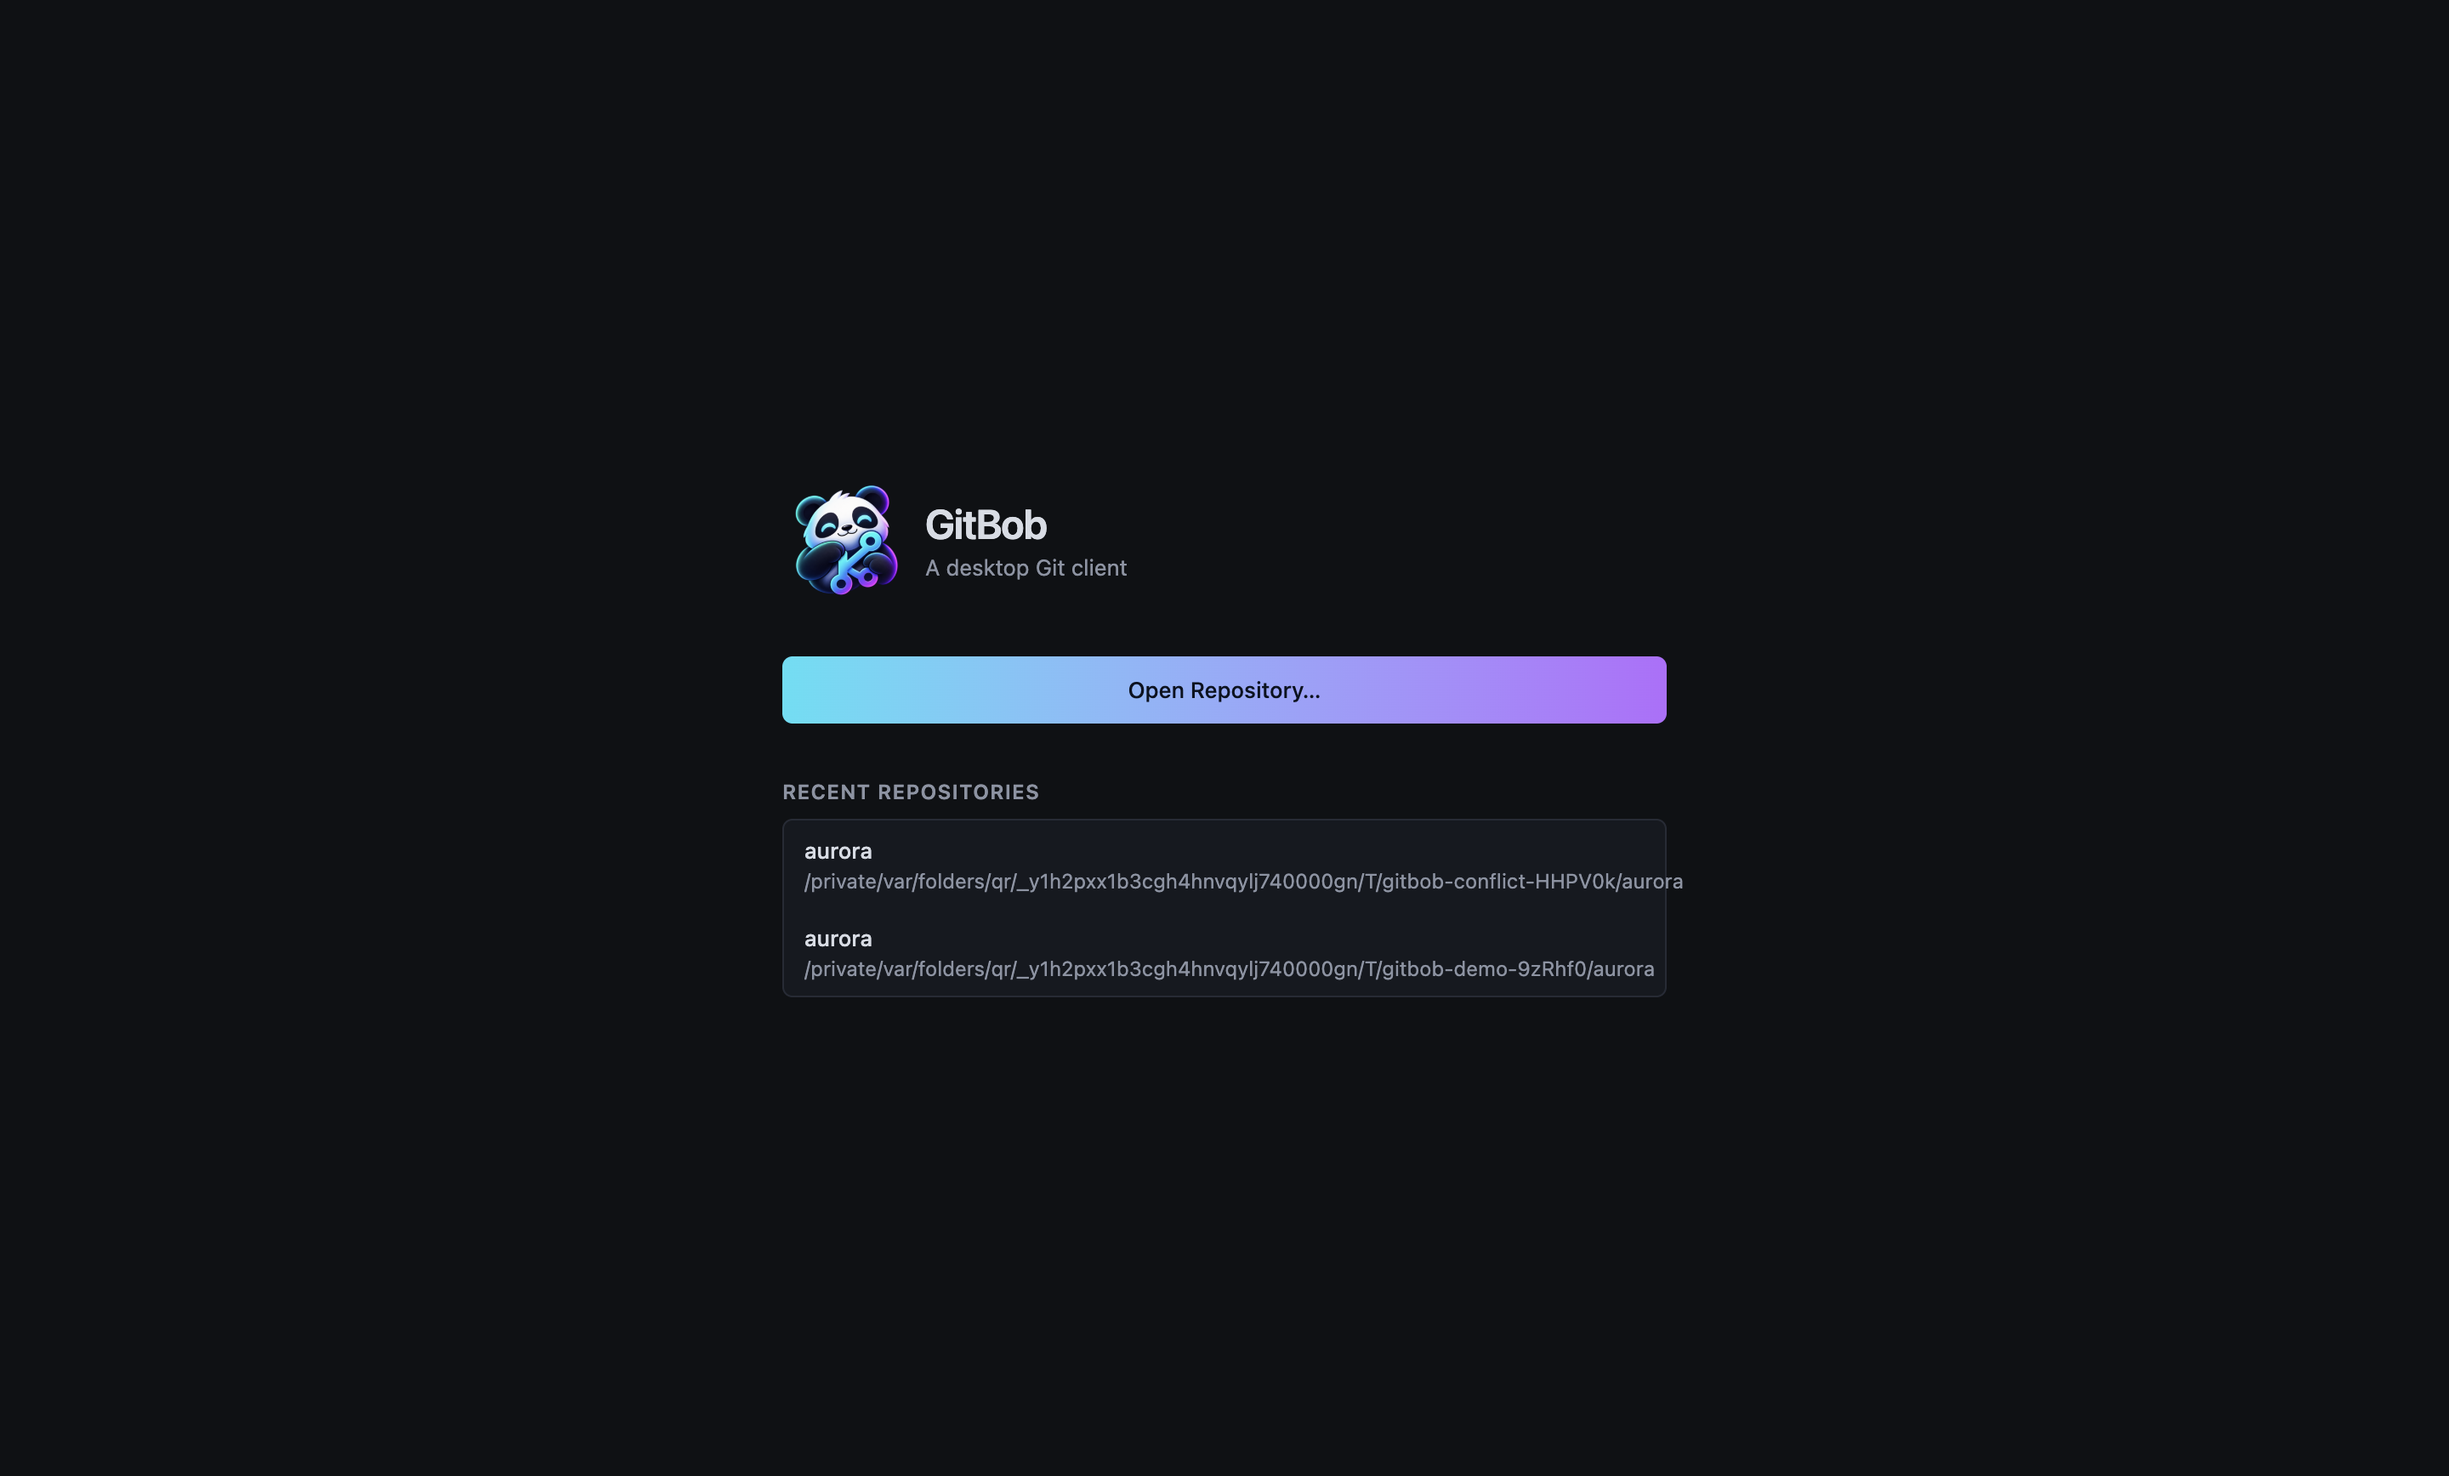
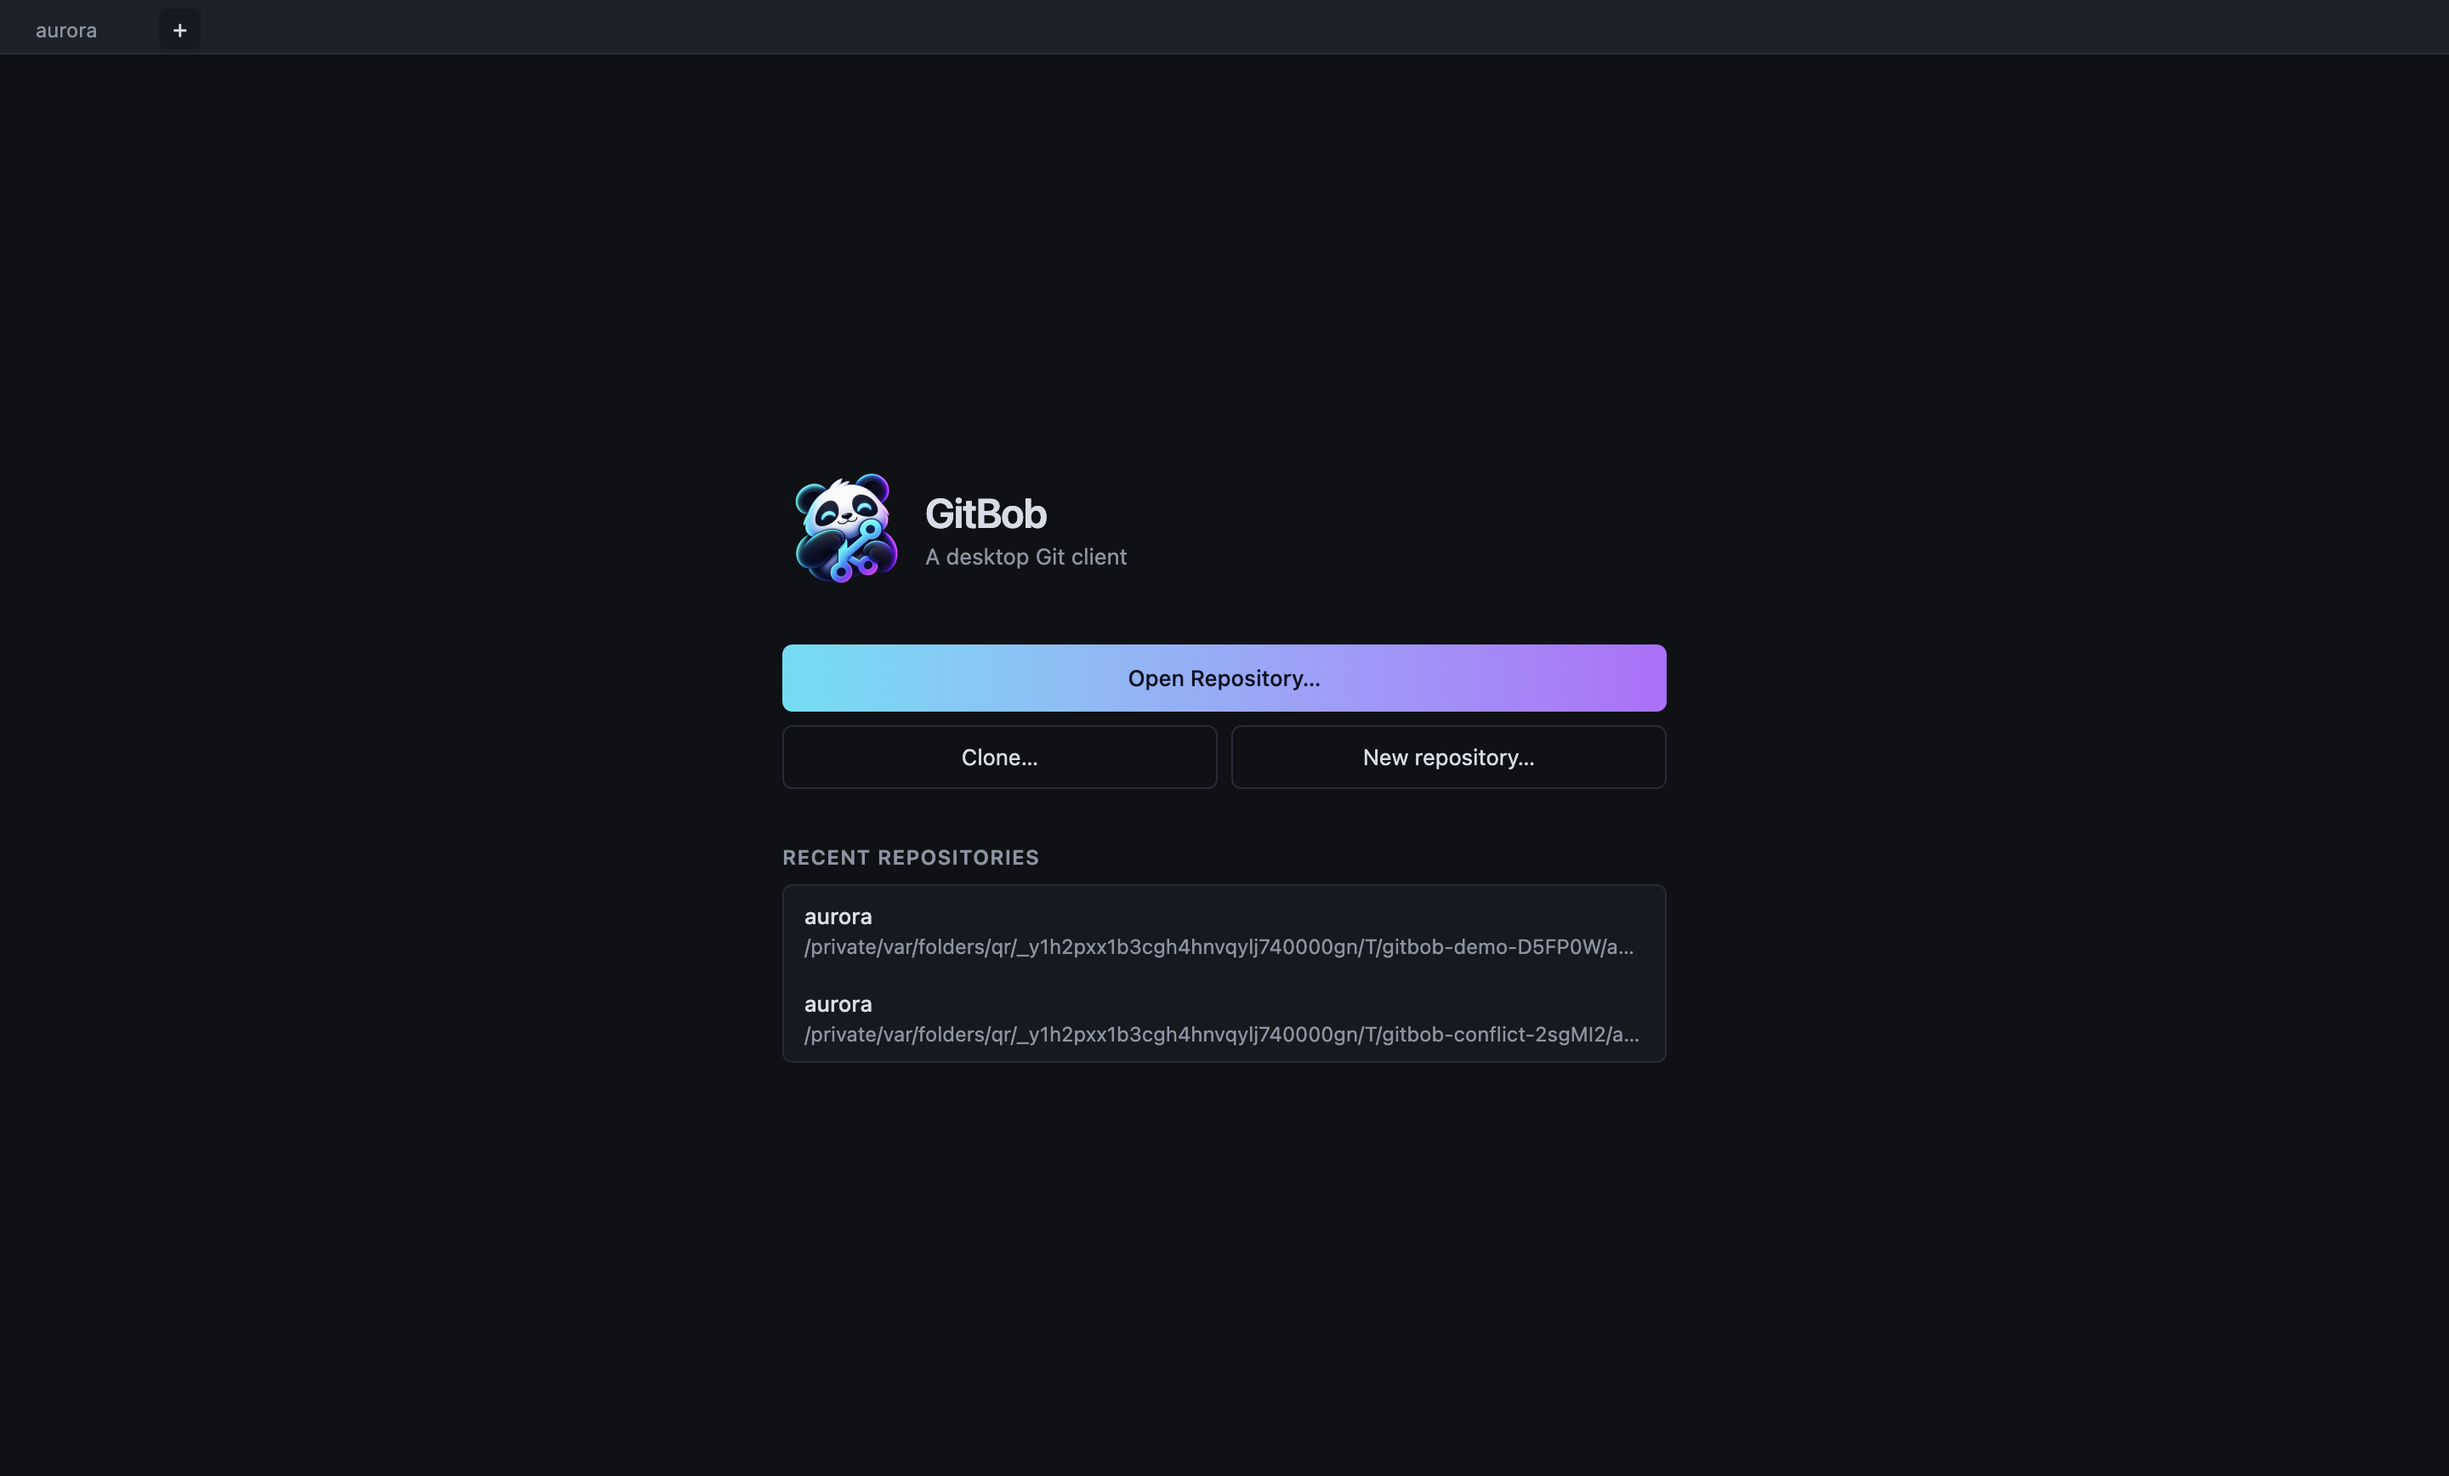
README for clone, tabs and filters; refreshed screenshots; truncate long recent paths

Changed region(s): [[0.3125, 0.5288, 0.6875, 0.7154], [0.3125, 0.4355, 0.6875, 0.5288], [0.3125, 0.3111, 0.4688, 0.4044]]

diff --git a/src/renderer/src/components/Welcome.tsx b/src/renderer/src/components/Welcome.tsx
@@ -51,7 +51,7 @@ export function Welcome({
                     className="flex w-full flex-col items-start border-b border-border px-3 py-2 text-left last:border-b-0 hover:bg-panel-2"
                   >
                     <span className="font-medium">{r.name}</span>
-                    <span className="truncate text-xs text-muted">{r.path}</span>
+                    <span className="w-full truncate text-xs text-muted">{r.path}</span>
                   </button>
                 </li>
               ))}

diff --git a/README.md b/README.md
@@ -92,9 +92,13 @@ Want a real app bundle instead? `npm run dist:mac` builds an (unsigned) `.dmg` i
 
 New to Git, or just new to GitBob? This is the whole tour.
 
-### 1. Open a project
+### 1. Open, clone or create a project
 
-Click **Open Repository…** (or press <kbd>⌘O</kbd> / <kbd>Ctrl+O</kbd>) and pick your project folder. GitBob remembers it, so next time it's one click away on the start screen.
+- **Open Repository…** (<kbd>⌘O</kbd> / <kbd>Ctrl+O</kbd>) opens a project folder that already uses Git.
+- **Clone…** (<kbd>⇧⌘O</kbd>) downloads a project from a URL such as `https://github.com/owner/repo.git`; you pick where it goes, and GitBob shows the progress.
+- **New repository…** starts version control in a folder.
+
+Every project opens in its own **tab**, so you can keep several open at once. GitBob remembers your tabs and recent projects for next time.
 
 <p align="center">
   <img src="docs/images/gitbob-welcome.png" alt="The GitBob start screen with the panda logo, an Open Repository button and a list of recent repositories" width="80%">
@@ -108,6 +112,8 @@ Each row is a **commit**, a saved snapshot of your project, newest at the top.
 - **Labels** next to a message show where branches point: <code>main</code> is a local branch, <code>origin/main</code> is the same branch on the server, and 🏷 marks a tag such as a release.
 - The **ringed dot** is where you are right now (HEAD). The ● in the left sidebar marks your current branch, and arrows like ↑1 ↓2 tell you how many commits you are ahead of or behind the server.
 - Click a commit to see its full message, author, parents and changed files. Click a file to see exactly what changed.
+
+Too busy to read? Click **Filter** above the commit list to show only certain branches, one author's commits, or the history of a file or folder.
 
 Looking for something? Press <kbd>⌘F</kbd> / <kbd>Ctrl+F</kbd> and type part of a message, an author's name or a commit id. GitBob searches the **entire** history, highlights the matches and jumps between them with <kbd>Enter</kbd>.
 
@@ -268,7 +274,7 @@ Every screenshot in this README is the real app working on a real Git repository
   <tr>
     <td width="33%" valign="top">
       <h4>📜 History</h4>
-      Commit graph across all branches, remotes and tags · merge and octopus-merge lanes · branch/tag/HEAD labels · commit details · whole-history search by message, author or id · keyboard navigation · incremental loading
+      Commit graph across all branches, remotes and tags · filters by branch, author and path · merge and octopus-merge lanes · branch/tag/HEAD labels · commit details · whole-history search by message, author or id · keyboard navigation · incremental loading
     </td>
     <td width="33%" valign="top">
       <h4>🧩 Working tree</h4>
@@ -291,14 +297,14 @@ Every screenshot in this README is the real app working on a real Git repository
   <tr>
     <td width="33%" valign="top">
       <h4>🎨 Comfortable</h4>
-      Light, dark or match-system theme (View → Theme) · blame · worktrees · submodules · GPG/SSH signature status · native menus · keyboard navigation · recent repositories
+      Repository tabs (restored on restart) · clone with progress · new repository · light, dark or match-system theme · blame · worktrees · submodules · GPG/SSH signature status · native menus · keyboard navigation · recent repositories
     </td>
   </tr>
 </table>
 
 ### On the roadmap
 
-Clone and init, repository tabs, graph filters, Git LFS, GitHub/GitLab/Bitbucket/Azure DevOps integration, and signed installers for macOS, Windows and Linux.
+Git LFS, remembering HTTPS passwords in the system keychain, SSH passphrase prompts, GitHub/GitLab/Bitbucket/Azure DevOps integration, and signed installers for macOS, Windows and Linux.
 
 <br>
 
@@ -307,6 +313,8 @@ Clone and init, repository tabs, graph filters, Git LFS, GitHub/GitLab/Bitbucket
 | Action | macOS | Windows / Linux |
 |---|---|---|
 | Open repository | <kbd>⌘O</kbd> | <kbd>Ctrl+O</kbd> |
+| Clone repository | <kbd>⇧⌘O</kbd> | <kbd>Ctrl+Shift+O</kbd> |
+| New repository | <kbd>⌥⌘N</kbd> | <kbd>Ctrl+Alt+N</kbd> |
 | Search history | <kbd>⌘F</kbd> | <kbd>Ctrl+F</kbd> |
 | Next / previous match | <kbd>Enter</kbd> / <kbd>⇧Enter</kbd> | <kbd>Enter</kbd> / <kbd>Shift+Enter</kbd> |
 | Move through commits | <kbd>↑</kbd> <kbd>↓</kbd> | <kbd>↑</kbd> <kbd>↓</kbd> |
@@ -344,7 +352,7 @@ npm run dist:mac     # package for macOS (dmg + zip)
 ```
 
 - **Fast on big repositories:** measured on a generated 100,000-commit repository: the full history loads in about 3 seconds and the graph layout takes about 40 ms ([`docs/BENCHMARKS.md`](docs/BENCHMARKS.md)).
-- **Tested against real Git:** more than 400 integration tests (including randomized partial-staging checks) create throwaway repositories (including local "servers" and an authenticated HTTP Git server) and check the results with Git itself; Playwright end-to-end tests click through the actual app.
+- **Tested against real Git:** about 500 integration tests (including randomized partial-staging checks) create throwaway repositories (including local "servers" and an authenticated HTTP Git server) and check the results with Git itself; Playwright end-to-end tests click through the actual app.
 - **Secure by default:** sandboxed renderer without Node access, context isolation, strict Content Security Policy, schema-validated IPC, and Git can only be run on repositories you opened.
 
 <br>
